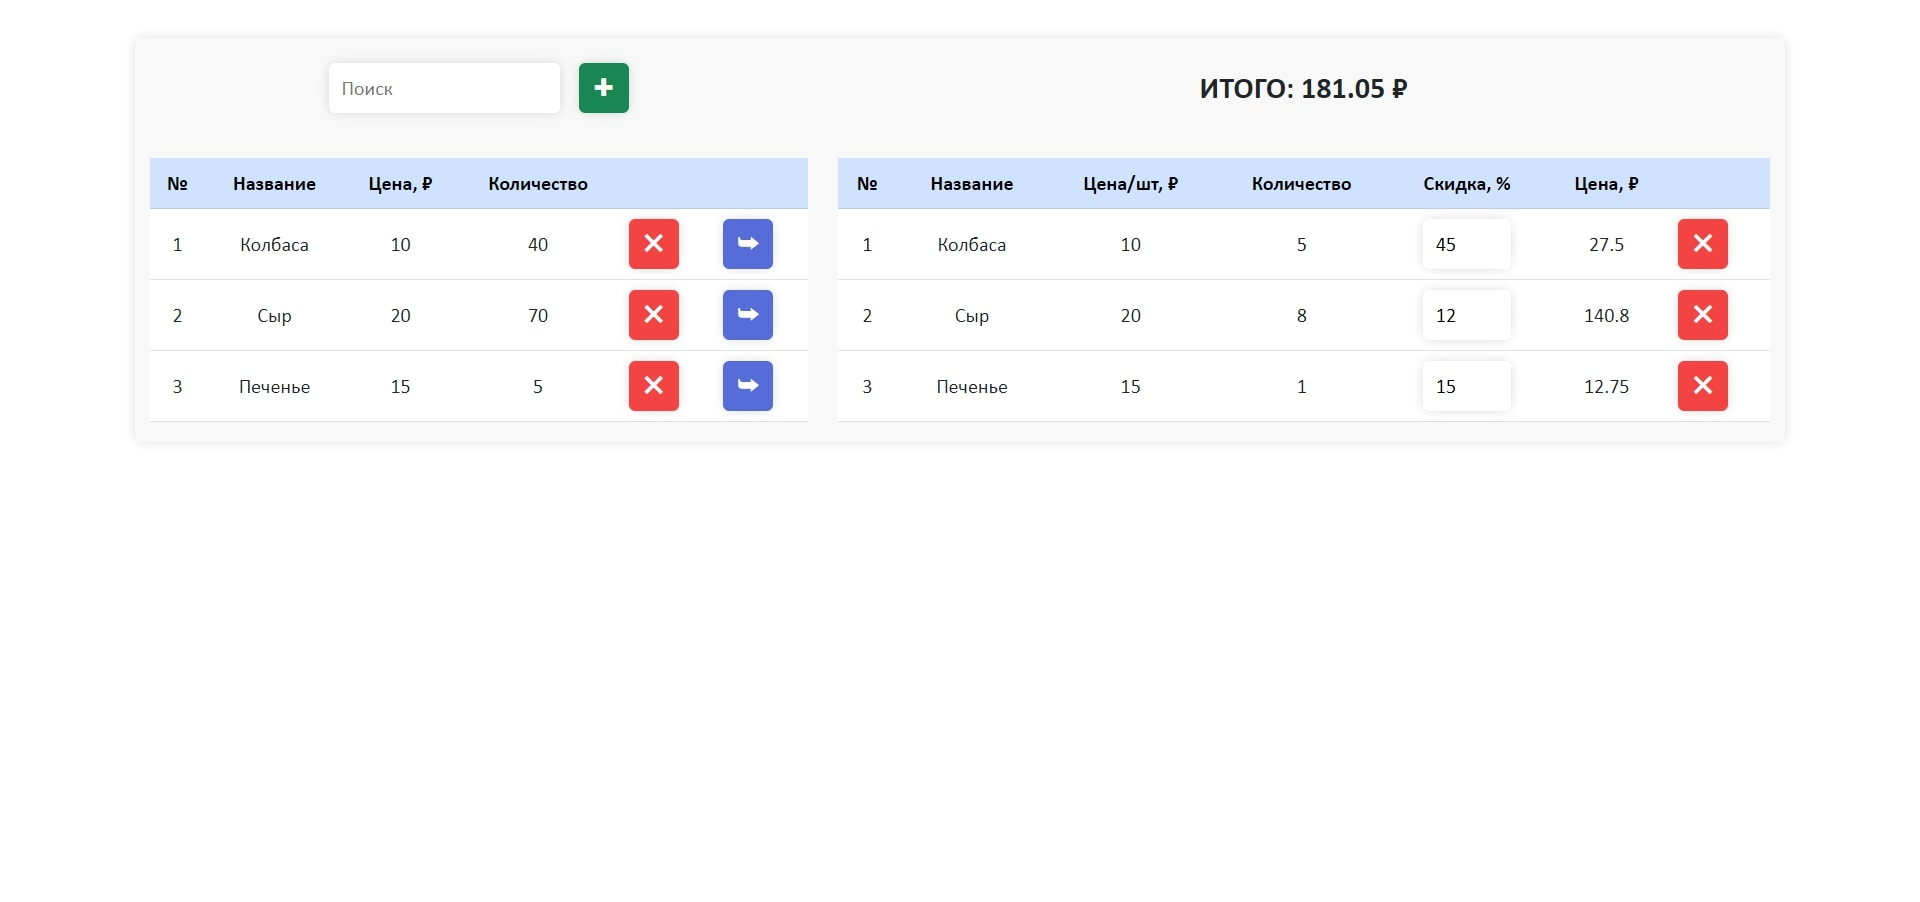
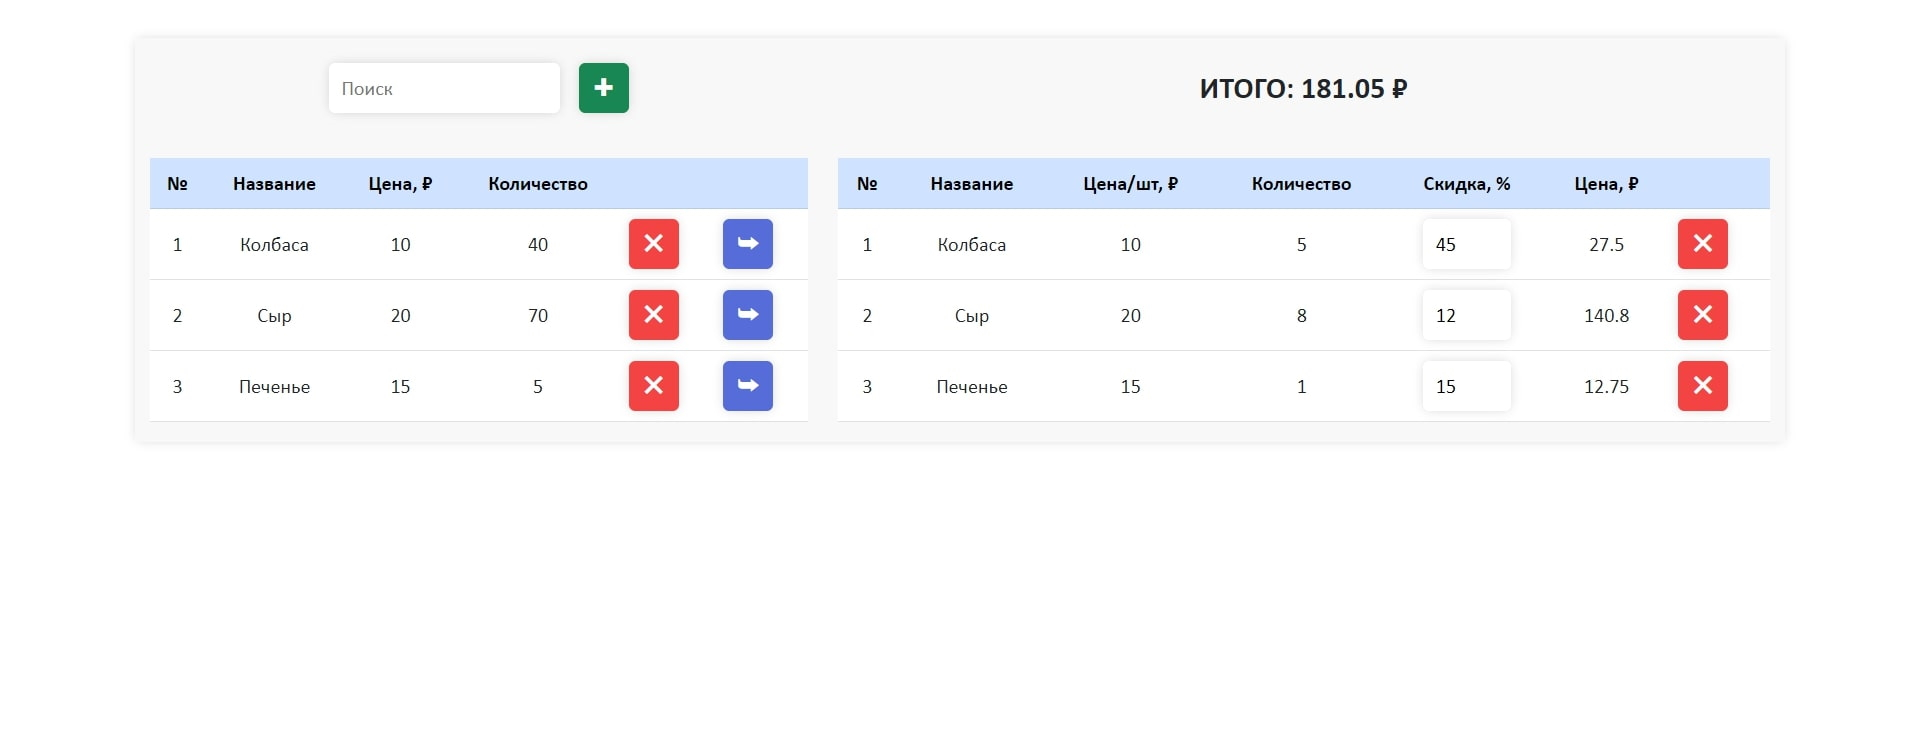
Добавила проект на главный экран, изменила размер картинки с тестовым магазином

diff --git a/index.html b/index.html
@@ -144,6 +144,14 @@
 			        <p>Слайдер картинок на JavaScript.</p>
 		        </a>
 	        </div>
+	
+	        <div class="card">
+		        <a class="card-link" href="./Projects/Game/index.html" target="_blank">
+			        <img class="card__img" src="./img/portfolio/mini-game.jpg" alt="Мини игра">
+			        <h3 class="card__title">Мини игра</h3>
+			        <p>Мини игра на JavaScript.</p>
+		        </a>
+	        </div>
 	        
         </div>
     </div>

diff --git a/css/main.css b/css/main.css
@@ -95,21 +95,23 @@ body {
 }
 
 .card-link {
-    display: block;
+    display: inline-block;
     padding: 20px;
+    height: 100%;
     color: #000000;
     transition: color .5s ease;
 }
 
 .card-link:hover {
+
     color: rgb(39, 91, 236);
     box-shadow: 0 10px 40px rgba(112, 173, 246, 0.35);
     transition: color .5s ease;
 }
 
 .card__img {
-    width: 500px;
-    /* height: 240px; */
+    width: 100%;
+    height: 100%;
     margin-bottom: 20px;
     object-fit: cover;
 }
